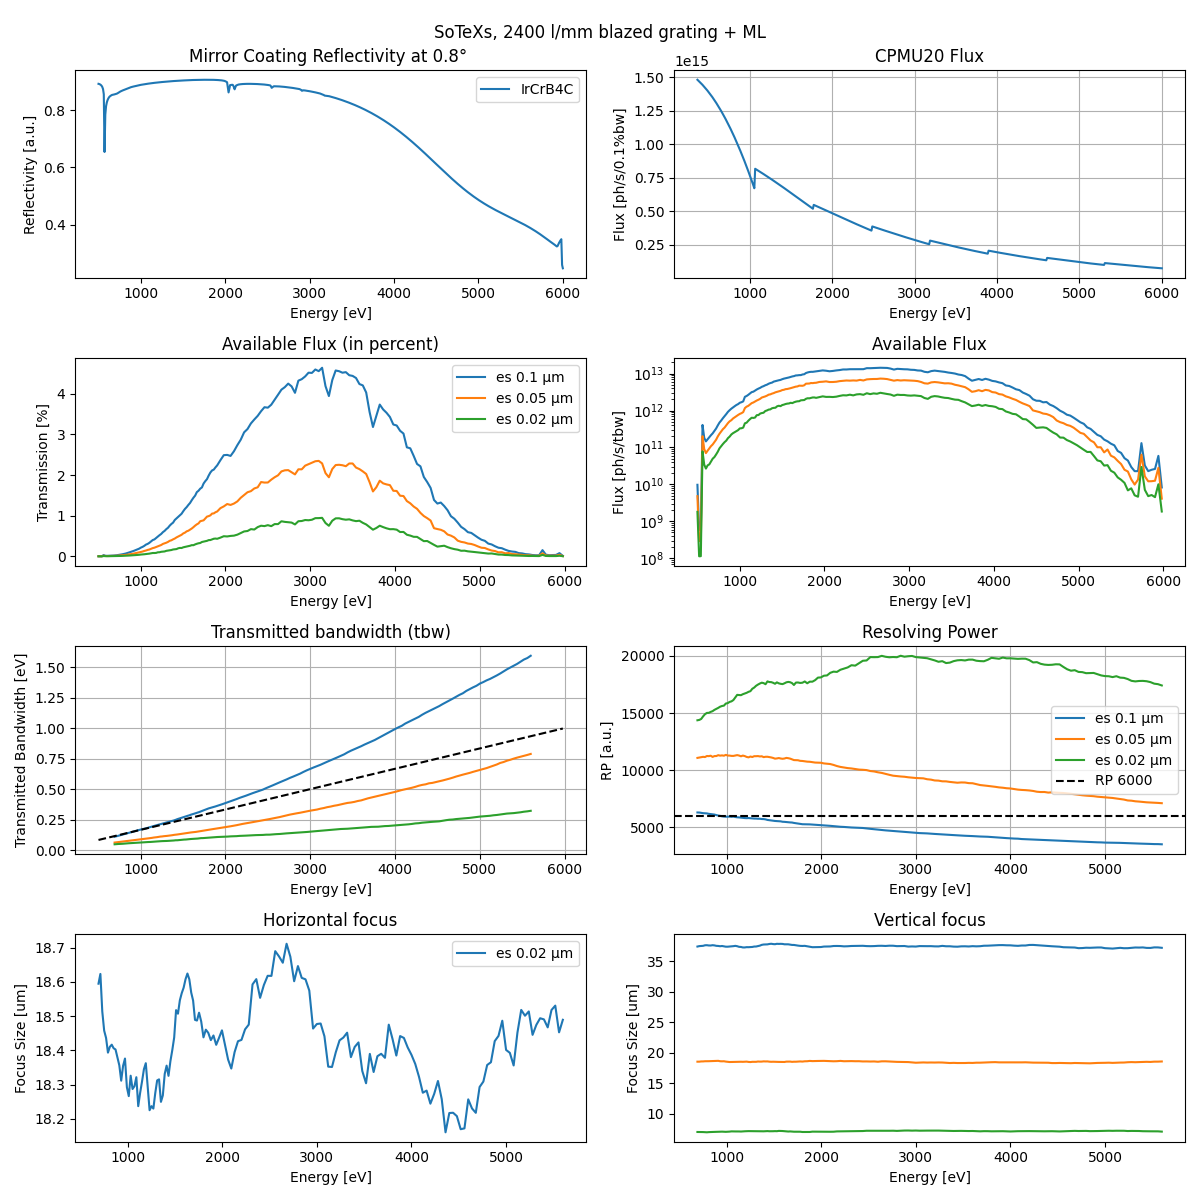
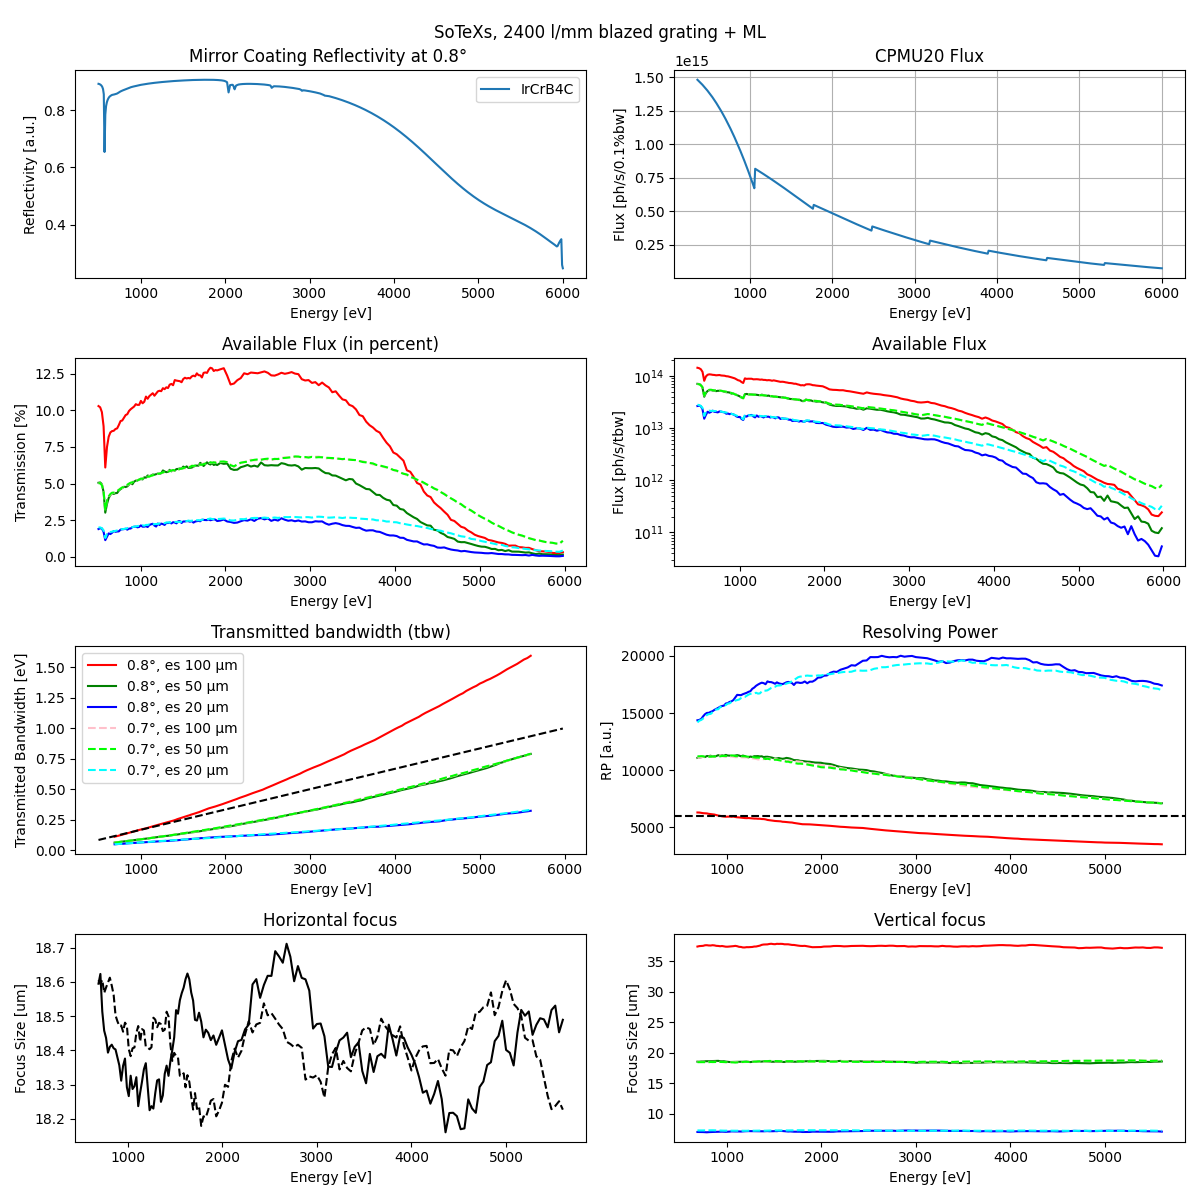
eval

diff --git a/simulation/7/eval_compare.py b/simulation/7/eval_compare.py
@@ -1,0 +1,228 @@
+import numpy as np
+import matplotlib.pyplot as plt
+import pandas as pd
+
+# path to xrt:
+import os, sys; sys.path.append(os.path.join('..', '..', '..'))  # analysis:ignore
+import xrt.backends.raycing.materials as rm
+from helper_lib import get_reflectivity, scale_undulator_flux
+
+
+# file/folder/ml index definition
+from params import ml_sim_name_rp, ml_sim_name_flux
+from params import undulator_spectra
+from multilayer_helper import ML_eff_new
+
+from raypyng.postprocessing import PostProcessAnalyzed
+p = PostProcessAnalyzed()
+w = 20
+
+flux_simulation_folder_ml_list = ['RAYPy_Simulation_2400_FLUX', 
+                                    'RAYPy_Simulation_2400_07_FLUX']
+rp_simulation_folder_ml_list   = ['RAYPy_Simulation_2400_RP', 
+                                    'RAYPy_Simulation_2400_07_RP']
+
+
+
+colors = ['red', 'green', 'blue', 'pink', 'lime', 'cyan' ]
+linestyles = ['solid', 'dashed']
+labels = ['0.8°','0.7°']
+# plotting Flux and RP
+fig, (axs) = plt.subplots(4, 2,figsize=(12,12))
+# text
+ax = axs[0,1]
+ax.plot(undulator_spectra[:,0], undulator_spectra[:,3])
+
+ax.set_title('CPMU20 Flux')
+ax.grid(which='both', axis='both')
+ax.set_ylabel('Flux [ph/s/0.1%bw]')
+ax.set_xlabel('Energy [eV]')
+
+# MIRROR COATING
+de = 38.9579-30.0000
+table = 'Henke'
+theta = 0.8
+E = np.arange(500, 6001, de)
+Ir  = rm.Material('Ir',  rho=22.56, kind='mirror',table=table)
+Cr  = rm.Material('Cr',  rho=7.15,  kind='mirror',table=table)
+B4C = rm.Material('C', rho=2.52,  kind='mirror',  table=table)
+IrCrB4C = rm.Multilayer( tLayer=B4C, tThickness=40, 
+                        bLayer=Cr, bThickness=60, 
+                        nPairs=1, substrate=Ir)
+IrCrB4C, _ = get_reflectivity(IrCrB4C, E=E, theta=theta)
+
+
+
+ax2=axs[0,0]
+ax2.set_xlabel('Energy [eV]')
+ax2.set_ylabel('Reflectivity [a.u.]')
+ax2.set_title(f'Mirror Coating Reflectivity at {theta}° ')
+ax2.plot(E, IrCrB4C, label='IrCrB4C')
+ax2.legend()
+
+for ind2 in range(2):
+
+    flux_simulation_folder = flux_simulation_folder_ml_list[ind2]
+    rp_simulation_folder = rp_simulation_folder_ml_list[ind2]
+    
+    # loading the data
+    oe = 'DetectorAtFocus' + '_RawRaysOutgoing.csv'
+    flux = pd.read_csv(os.path.join(flux_simulation_folder, oe))
+    rp = pd.read_csv(os.path.join(rp_simulation_folder, oe))
+    exit_slit_list = flux['ExitSlit.totalHeight'].unique()[::-1]
+
+
+    # AVAILABLE/ABS FLUX 
+    ax = axs[1,0]
+    ax2 = axs[1,1]
+    for ind, es in enumerate(exit_slit_list):
+        filtered_flux = flux[flux['ExitSlit.totalHeight'] == es]
+        energy = filtered_flux['CPMU20.photonEnergy']
+        perc_flux = filtered_flux['PercentageRaysSurvived']
+        # perc_flux = ML_eff_new(energy, perc_flux)
+        abs_flux = scale_undulator_flux(energy, perc_flux, undulator_spectra)
+        ax.plot(energy,perc_flux,color=colors[ind+3*ind2], linestyle=linestyles[ind2], label=f'es {es} μm')
+        ax2.plot(energy,abs_flux,color=colors[ind+3*ind2], linestyle=linestyles[ind2], label=f'es {es} μm')
+
+    ax.set_xlabel(r'Energy [eV]')
+    ax.set_ylabel('Transmission [%]')
+    ax.set_title('Available Flux (in percent)')
+    ax.grid(which='both', axis='both')
+    if ind==0:
+        ax.legend()
+    # ax.set_yscale('log')
+    ax2.set_title('Available Flux')
+    ax2.set_xlabel(r'Energy [eV]')
+    ax.grid(which='both', axis='both')
+    ax2.set_ylabel('Flux [ph/s/tbw]')
+    ax2.set_yscale('log')
+
+
+
+    # BANDWIDTH
+    ax = axs[2,0]
+    for ind, es in enumerate(exit_slit_list):
+        filtered_rp = rp[rp['ExitSlit.totalHeight'] == es]
+        energy = filtered_rp['CPMU20.photonEnergy']
+        bw = filtered_rp['Bandwidth']
+        ax.plot(p.moving_average(energy,w),
+                p.moving_average(bw,w),
+                color=colors[ind+3*ind2], linestyle=linestyles[ind2],
+                label=f'{labels[ind2]}, es {int(es*1000)} μm' )
+    ax.set_xlabel('Energy [eV]')
+    ax.set_ylabel('Transmitted Bandwidth [eV]')
+    ax.set_title('Transmitted bandwidth (tbw)')
+    ax.grid(which='both', axis='both')
+
+    if ind2==1:
+        # Calculate the line as 6000 divided by the energy values
+        energy_threshold = np.arange(energy.iloc[0], energy.iloc[-1])
+        threshold_transmission = energy_threshold/6000
+        ax.plot(energy_threshold, threshold_transmission, linestyle='dashed', color='black')
+        ax.legend()
+
+    # RESOLVING POWER
+    ax = axs[2,1]
+    for ind, es in enumerate(exit_slit_list):
+        filtered_rp = rp[rp['ExitSlit.totalHeight'] == es]
+        energy = filtered_rp['CPMU20.photonEnergy']
+        bw = filtered_rp['Bandwidth']
+        ax.plot(p.moving_average(energy,w),
+                p.moving_average(energy/bw,w),
+                color=colors[ind+3*ind2], linestyle=linestyles[ind2],
+                label=f'{labels[ind2]}, es {int(es*1000)} μm' )
+
+    ax.set_xlabel('Energy [eV]')
+    ax.set_ylabel('RP [a.u.]')
+    ax.set_title('Resolving Power')
+    ax.grid(which='both', axis='both')
+    if ind2==1:
+        ax.axhline(y=6000, color='k', linestyle='--', label='RP 6000')
+        # ax.legend()
+
+    # HORIZONTAL FOCUS
+    ax = axs[3,0]
+    # Initialize an empty list to accumulate 'HorizontalFocusFWHM' data
+    focx = []
+
+    # Loop through each slit size in the 'SlitSize' list
+    for ind, es in enumerate(exit_slit_list):
+        # Filter the DataFrame for the current slit size
+        filtered_rp = rp[rp['ExitSlit.totalHeight'] == es]
+        
+        energy = filtered_rp['CPMU20.photonEnergy']
+        
+        # Sum up 'HorizontalFocusFWHM' for each slit size
+        focx.append(filtered_rp['HorizontalFocusFWHM'])
+
+    # Convert 'focx_plot' to a numpy array for element-wise operations
+    focx = np.array(focx)
+    focx = np.mean(focx, axis=0)
+
+    ax.plot(p.moving_average(energy,w),
+            p.moving_average(focx*1000,w),
+            color='black', linestyle=linestyles[ind2],
+            label=f'es {es} μm' )
+
+    ax.set_xlabel('Energy [eV]')
+    ax.set_ylabel('Focus Size [um]')
+    ax.set_title('Horizontal focus')
+    if ind ==0:
+        ax.legend()
+
+    # VERTICAL FOCUS
+    ax = axs[3,1]
+    for ind, es in enumerate(exit_slit_list):
+        filtered_rp = rp[rp['ExitSlit.totalHeight'] == es]
+        energy = filtered_rp['CPMU20.photonEnergy']
+        focy = filtered_rp['VerticalFocusFWHM']
+        ax.plot(p.moving_average(energy,w),
+                p.moving_average(focy*1000,w),
+                color=colors[ind+3*ind2], linestyle=linestyles[ind2],
+                label=f'ExitSlit {es} μm' )
+
+    ax.set_xlabel('Energy [eV]')
+    ax.set_ylabel('Focus Size [um]')
+    ax.set_title('Vertical focus')
+
+plt.suptitle('SoTeXs, 2400 l/mm blazed grating + ML')
+plt.tight_layout()
+plt.savefig('plot/SoTeXS-2400.png')
+# plt.show()
+
+
+# fig, (axs) = plt.subplots(2, 1,figsize=(10,10))
+
+
+# # PERMIL BANDWIDTH
+# ax = axs[0]
+# for ind, es in enumerate(exit_slit_list):
+#     filtered_rp = rp[rp['ExitSlit.totalHeight'] == es]
+#     energy = filtered_rp['CPMU20.photonEnergy']
+#     bw = filtered_rp['EnergyPerMilPerBw']
+#     ax.plot(energy,bw, label=f'es {es} μm')
+
+# ax.set_xlabel('Energy [keV]')
+# ax.set_ylabel('Energy/1000/bandwidth [a.u.]')
+# ax.set_title('PerMil Transmission')
+# ax.grid(which='both', axis='both')
+# ax.legend()
+
+# # PERMIL FLUX 
+# ax = axs[1]
+# for ind, es in enumerate(exit_slit_list):
+#     filtered_flux = flux[flux['ExitSlit.totalHeight'] == es]
+#     energy = filtered_flux['CPMU20.photonEnergy']
+#     permil = filtered_flux['FluxPerMilPerBwPerc']
+#     ax.plot(energy,permil)
+
+# ax.set_xlabel(r'Energy [eV]')
+# ax.set_ylabel('Flux [ph/s/tbw]')
+# ax.set_title('Transmission / Per MIl bandwidth')
+# ax.grid(which='both', axis='both')
+
+# plt.suptitle('SoTeXs, 2400 l/mm blazed grating + ML')
+# plt.tight_layout()
+# plt.savefig('plot/SoTeXS-2400-PerMil.png')
+
+
